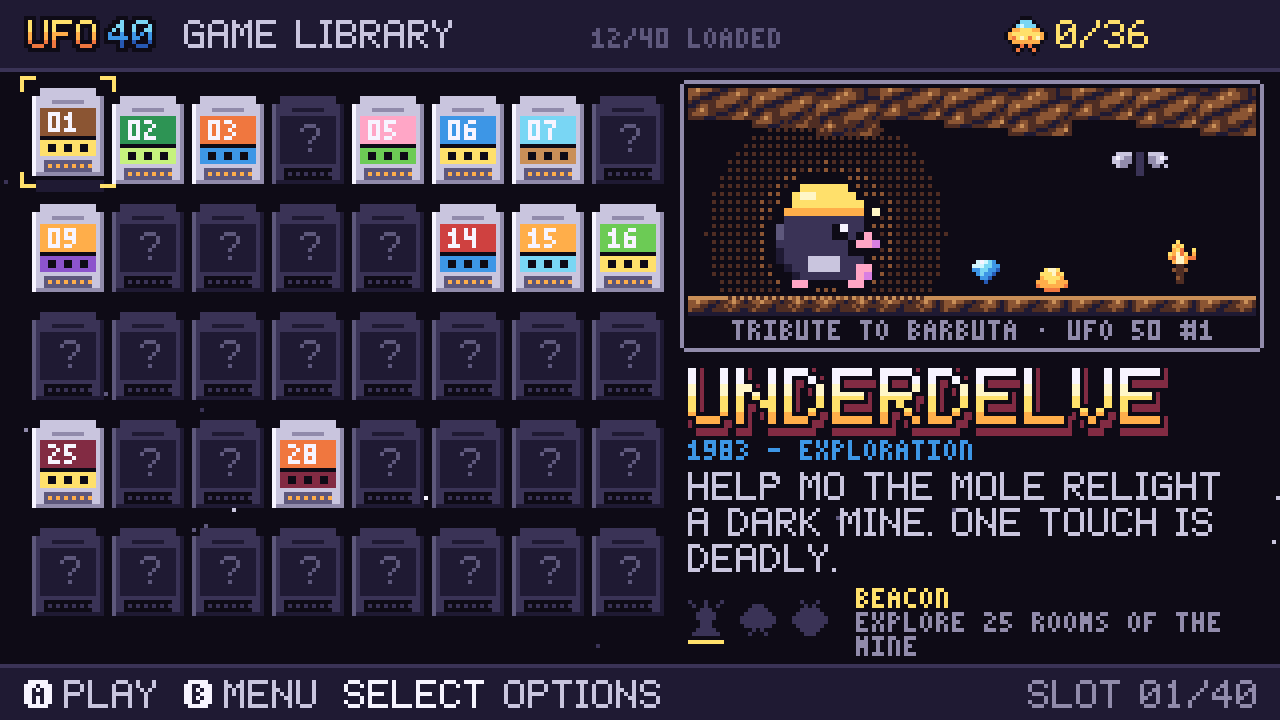
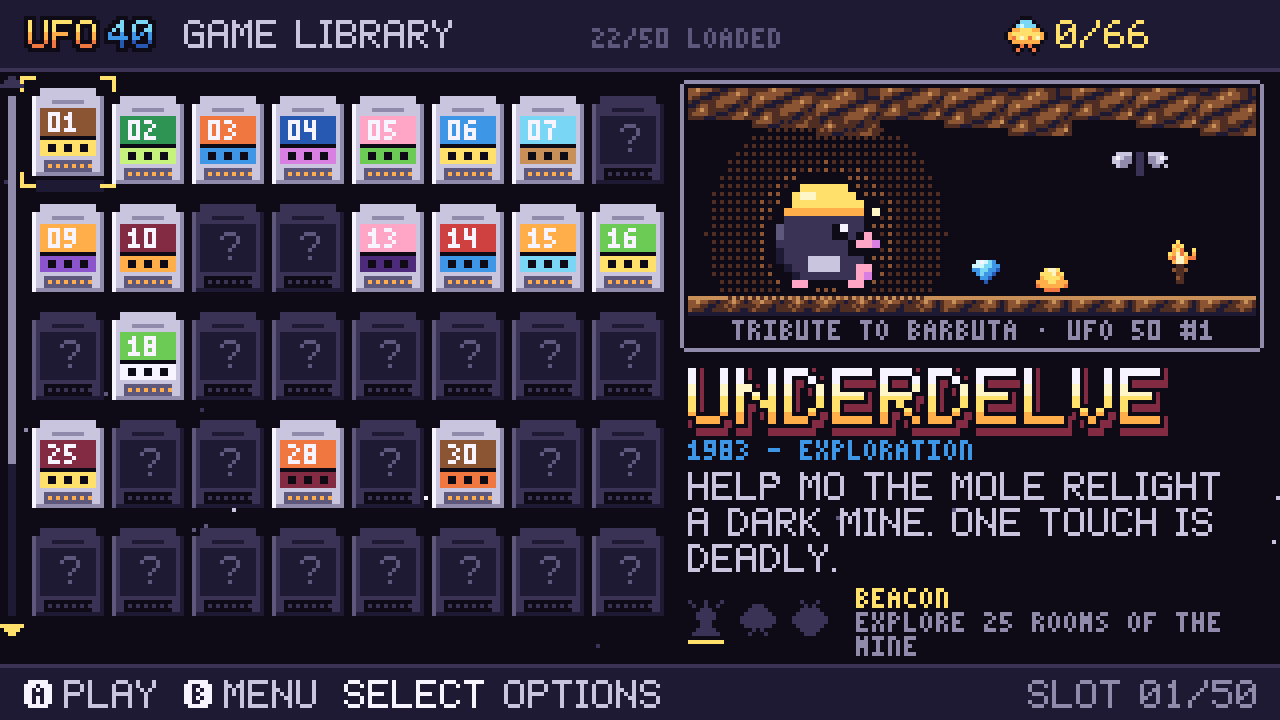
UFO 40: 22 cartridges, v0.6.0 numbers, new case images

diff --git a/src/data/caseStudies.ts b/src/data/caseStudies.ts
@@ -175,7 +175,7 @@ export const caseStudies: Record<string, CaseStudy> = {
 
   'ufo-40': {
     pitch:
-      'UFO 40 is a joke "port" of UFO 50 to the PlayStation Vita that had to be rebuilt from scratch: a pretend 1980s console whose cartridges play exactly like their UFO 50 originals, with their own names, characters, art, music and levels. Twelve games so far, and one C codebase that runs on a modded Vita, on Windows and in the browser.',
+      'UFO 40 is a joke "port" of UFO 50 to the PlayStation Vita that had to be rebuilt from scratch: a pretend 1980s console whose cartridges play exactly like their UFO 50 originals, with their own names, characters, art, music and levels. Twenty-two games so far in a 50-slot library, and one C codebase that runs on a modded Vita, on Windows and in the browser.',
     problem:
       'UFO 50 has no Vita version, and its code and assets are not ours to use. Rebuilding its games means recreating their mechanics faithfully from written descriptions alone, while every sprite, song, name and level stays original, all within a small handheld\'s 444 MHz CPU, and without a way to run Vita builds on the development PC.',
     how: [
@@ -208,24 +208,30 @@ export const caseStudies: Record<string, CaseStudy> = {
       },
     ],
     numbers: [
-      { label: 'CARTRIDGES', value: '12 / 40' },
-      { label: 'TEST SCRIPTS', value: '325' },
-      { label: 'CHECKS', value: '3,675' },
+      { label: 'CARTRIDGES', value: '22 / 50' },
+      { label: 'TEST SCRIPTS', value: '660' },
+      { label: 'CHECKS', value: '9,192' },
       { label: 'ORIGINAL TRACKS', value: '80' },
     ],
     images: [
-      img('ufo-40', 'mosaic.webp', 'All twelve cartridges, captured by the headless test runner.'),
-      img('ufo-40', 'library.webp', 'The game library: 40 slots numbered like UFO 50, each cartridge with a tribute label and three goals.'),
+      img('ufo-40', 'mosaic.webp', 'All twenty-two cartridges, the library and the menu, captured by the headless test runner.'),
+      img('ufo-40', 'library.webp', 'The game library: 50 slots numbered like UFO 50, each cartridge with a tribute label and three goals.'),
       img('ufo-40', 'underdelve.webp', 'UNDERDELVE (tribute to Barbuta): one-hit deaths in a dark mine of 64 hand-made screens.'),
       img('ufo-40', 'bannerfall.webp', 'BANNERFALL (tribute to Attactics): drag troops between lanes before the drums sound.'),
       img('ufo-40', 'cutlass.webp', 'CUTLASS CUP (tribute to Bushido Ball): sword volleyball on a galley deck, 1P or 2P.'),
       img('ufo-40', 'fennec.webp', 'FENNEC FOUNTAIN (tribute to Block Koala): fifty number-block rooms, each checked by a solver.'),
       img('ufo-40', 'openhouse.webp', 'OPEN HOUSE (tribute to Party House): a guest-drafting party game with 46 guests of our own.'),
       img('ufo-40', 'dune.webp', 'DUNE EXPRESS (tribute to Rail Heist): real time until a guard wakes, then turns.'),
+      img('ufo-40', 'wetpaint.webp', 'WET PAINT (tribute to Paint Chase): 26 courses of racing to paint the floor.'),
+      img('ufo-40', 'flinthold.webp', 'FLINTHOLD (tribute to Rock On! Island): cave defence against the Four Lords.'),
+      img('ufo-40', 'rimshire.webp', 'RIMSHIRE (tribute to Lords of Diskonia): flick-disk battles on a drawn campaign map.'),
+      img('ufo-40', 'duskling.webp', 'DUSKLING (tribute to Mooncat): two-button platforming through 42 rooms.'),
+      img('ufo-40', 'homespun.webp', 'HOMESPUN (tribute to Pilot Quest): a camp that keeps producing in real time.'),
+      img('ufo-40', 'mandibles.webp', 'MANDIBLES (tribute to Combatants): one ant shouting orders to an army.'),
       img('ufo-40', 'web-phone.webp', 'The web build on a phone: the main menu and the on-screen pad.'),
     ],
     status:
-      'Played on a real PS Vita by the owner. His feedback ("doesn’t feel like UFO 50") led to a full rebuild: every game re-researched rule by rule, fixed, and checked by an independent review. v0.5.0 is built and tested in CI; hand-testing of the rebuilt games on hardware is ongoing.',
+      'Played on a real PS Vita by the owner. His feedback ("doesn’t feel like UFO 50") led to a full rebuild: every game re-researched rule by rule, fixed, and checked by an independent review. v0.6.0 has 22 cartridges, each reviewed independently against its original and tested in CI; the owner keeps play-testing and adds his own twists, like OPEN HOUSE’s endless and custom modes.',
   },
 
   'readme-glow': {

diff --git a/src/data/content.ts b/src/data/content.ts
@@ -229,23 +229,23 @@ export const projects: Project[] = [
   {
     id: 'ufo-40',
     overview:
-      "A fan-made tribute to UFO 50 for the PlayStation Vita, rebuilt from scratch in C: a pretend 1980s console with a 40-slot game library, where each cartridge plays exactly like its UFO 50 original but has its own name, characters, art, music and levels. Twelve games so far, from a one-hit-death cave explorer and a turn-based bug-control game to a lane-battle strategy game, a number-block puzzler, a party-guest deckbuilder and a train-heist stealth game. One codebase runs on a modded Vita, on Windows and in the browser.",
+      "A fan-made tribute to UFO 50 for the PlayStation Vita, rebuilt from scratch in C: a pretend 1980s console with a 50-slot game library, where each cartridge plays exactly like its UFO 50 original but has its own name, characters, art, music and levels. Twelve games so far, from a one-hit-death cave explorer and a turn-based bug-control game to a lane-battle strategy game, a number-block puzzler, a party-guest deckbuilder and a train-heist stealth game. One codebase runs on a modded Vita, on Windows and in the browser.",
     features: [
-      'Twelve complete games in their UFO 50 slots (01, 02, 03, 05, 06, 07, 09, 14, 15, 16, 25, 28): the same rules and structure as the originals, with no UFO 50 code, art, music or levels',
+      'Twenty-two complete games in their UFO 50 slots, from 01 to 47: the same rules, structure and full content as the originals, with no UFO 50 code, art, music or levels',
       'Its own engine in portable C11: a 320×180 indexed-colour framebuffer, a 32-colour palette, sprites, fonts, scenes, CRC-checked saves',
       'A 4-channel chiptune synth (2 pulse, triangle, noise) with a custom music notation, and 80 original tracks',
       'One SDL2 layer for PS Vita (GXM renderer, 960×544), Windows and the web (Emscripten, with an on-screen pad for phones)',
-      'A headless runner that plays scripted button presses: 325 test scripts (3,675 checks), and every screenshot and GIF in the README',
+      'A headless runner that plays scripted button presses: 660 test scripts (9,192 checks), and every screenshot and GIF in the README',
       'Every game rebuilt to its original’s rules from sourced research, then checked by an independent review before release; a console menu with a jukebox and save management',
       'Solvers and bots in the tests prove every puzzle room and mission can be won: 50 block-pushing rooms, 15 stealth levels and 20 heist missions',
       'GitHub Actions builds the Vita .vpk (vitasdk), Windows and web, and publishes releases',
     ],
-    facts: [{ label: 'GAMES', value: '12 / 40' }, { label: 'TEST CHECKS', value: '3,675' }, { label: 'LINES OF C', value: '44k' }],
+    facts: [{ label: 'GAMES', value: '22 / 50' }, { label: 'TEST CHECKS', value: '9,192' }, { label: 'LINES OF C', value: '91k' }],
     title: 'UFO 40',
     category: 'desktop',
     featured: true,
     summary:
-      'A UFO 50 tribute for the PS Vita, built from scratch in C: a pretend 1980s console with twelve games that play exactly like the originals, on Vita, PC and the web.',
+      'A UFO 50 tribute for the PS Vita, built from scratch in C: a pretend 1980s console with twenty-two games that play exactly like the originals, on Vita, PC and the web.',
     tech: ['C11', 'SDL2', 'PS Vita (vitasdk)', 'Emscripten', 'Chiptune synth', 'GitHub Actions'],
     links: [
       { label: 'Play', href: 'https://naniiic137.github.io/ufo-40/' },
